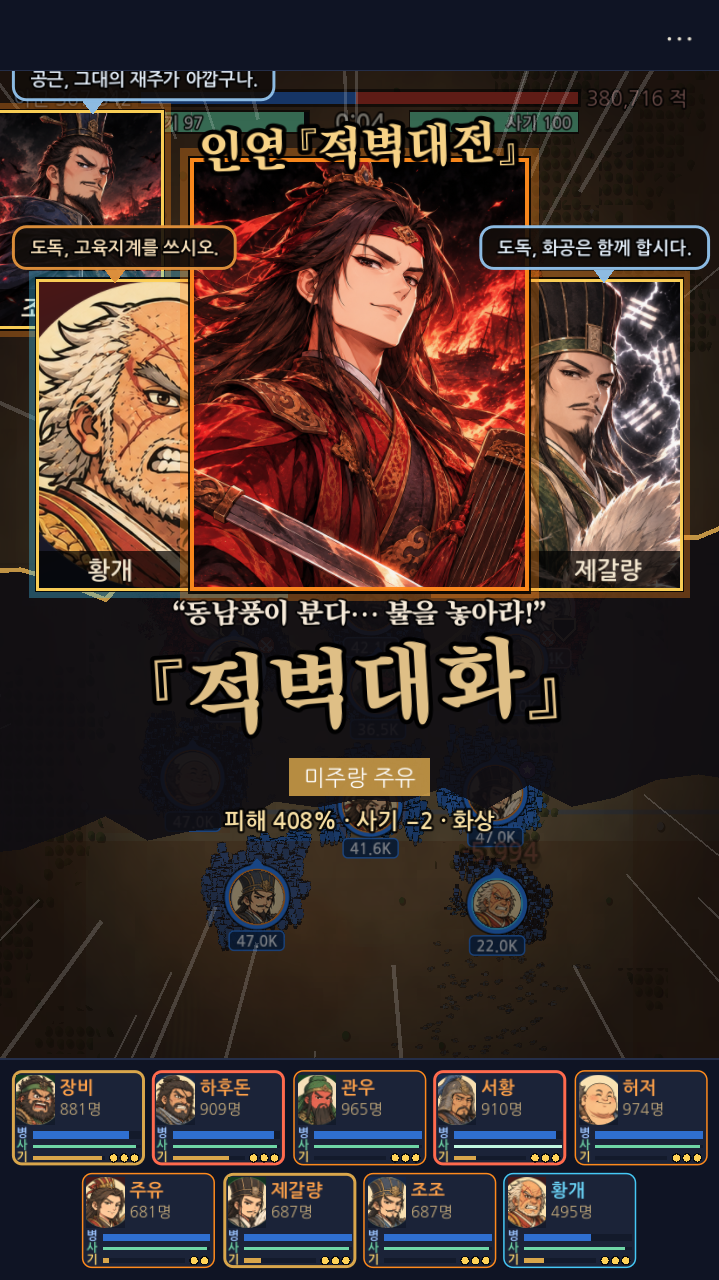
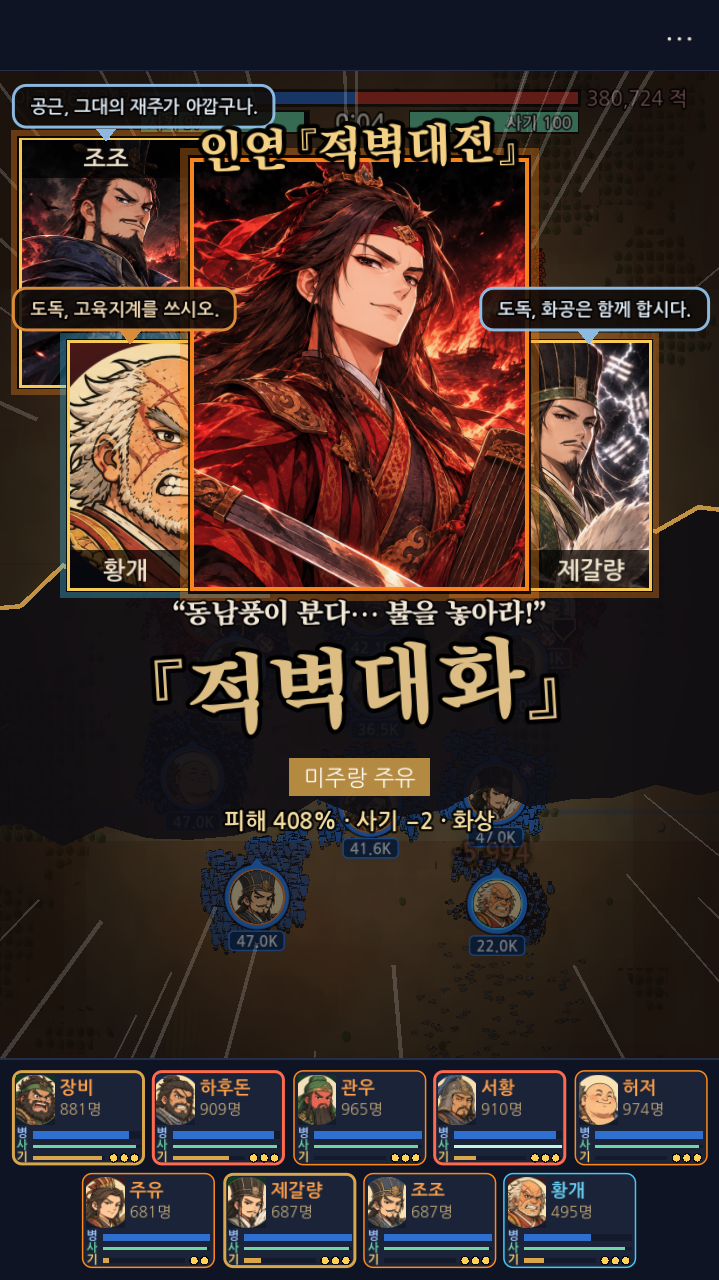
인연 4명 화면 정리(짝 셋이면 0.8배 · 이름 띠 안 가림) · 초월 인연은 게이지 70 이상이면 합류
- 컷인 셋째 짝은 첫 짝 위 바깥 · 이름 띠 위, 합류 칩 셋째는 첫 칩 옆에 나란히
- RtBattle.yeon_up_join 70 (초월 인연 덱 20판 4명 연쇄 4 -> 6), tests/inyeon (i) 추가

diff --git a/작업현황.md b/작업현황.md
@@ -1123,3 +1123,4 @@
 - **③ 초월은 연쇄를 키운다**: 같은 인연을 나누는 초월(등급 6, 기인 아님) 아군이 살아 있으면 그 장수의 게이지가 `Battle.inyeon_up_gain` ×1.15 로 찬다(`Battle._gain_up`, `RtBattle._yeon_up_setup`). 대표나 후보에 초월이 있으면 참여 상한 3 → 4(`INYEON_MAX_UP`), 3명 합류 시각 `inyeon_join_at4` [0.24, 0.48, 0.72]. stats `inyeon_up` · `inyeon_n4`.
 - **화면**: 컷인 짝 3명까지(셋째는 첫 짝 위 바깥쪽에 조금 작게, 말풍선 포함) · 기 모으는 중 합류 칩 셋째(첫 칩 아래 왼쪽). 주제 사건은 인연기 연출 틀을 빌려 큰 띠 「점화 『동남풍』」 등(`THEME_FIN` · `THEME_COL`, 새 이미지 없음). 장수 정보창 · 인연 시트: 인연마다 「주제 점화 『동남풍』 —— 설명」 줄(인연기 줄 위) + 규칙 줄 아래 「기인: 연쇄를 연다 … / 초월: 연쇄를 키운다 …」(`DB.inyeon_theme_text` · `DB.INYEON_ROLE`). 스크린샷 `docs/report_1112/inyeon4_both.png` · `inyeon4_surge.png`(주유 대표 + 황개(초월) · 제갈량 · 조조 4명).
 - **점검**: `tests/inyeon.tscn` 통과 —— 기존 (a~e) 값 그대로(3명 합류 +0.80 · +1.60, 터짐 +2.5 · 2.7 · 2.9) + 새 (f) 기인 노숙(적벽대전): 기인이 대표보다 0.2초 먼저 · mates 2 · 마지막 finish / (g) 초월 황개: 합류 +0.60 · +1.20 · +1.80 · 4명 합동 / (h) 무작위 20판(불멸 6 · 초월 2 · 기인 1 덱 양쪽): 합동 75 · **기인이 연 연쇄 17(마무리 16) · 초월 낀 연쇄 35** · 4명 0(게이지 셋이 동시에 차는 일이 드묾) · 주제 71 · 인연기 18. `tests/determinism` 30판 실패 0 · `tests/game -- --runs=3` 스크립트 오류 0 · `inyeon_fin` · `inyeon_lines` · `inyeon_ui` 통과. 밸런스 측정은 하지 않았다(마지막에 한 번).
+- **2차(11/12 지휘)**: 짝 셋이면 컷인 짝 · 합류 칩을 모두 0.8배(`YEON_MATE3_SCALE`)로 —— 컷인 셋째는 첫 짝 바로 위 바깥(이름 띠를 위에 둬 안 가림), 합류 칩 셋째는 첫 칩 오른쪽에 나란히(말풍선은 한 단 아래). 같은 인연 초월이 살아 있으면(또는 자신이 초월이면) 게이지 `RtBattle.yeon_up_join` 70 이상이면 합류(평소 100, `_join_gauge`). 4명 연쇄 —— 무작위 20판(h)은 문턱 100 · 85 · 70 · 50 모두 0(덱 9장에 같은 인연 넷 + 초월이 모이는 경우가 20판에 2번뿐이라 문턱으로는 못 늘림) → 새 (i) 초월 인연 덱 20판(그 인연 4명 + 불멸 무작위): 문턱 100 → 4회 · 85 → 4회 · **70 → 6회** 라 70. 스크린샷 `docs/report_1112/inyeon4_surge.png` 갈아 끼움.
